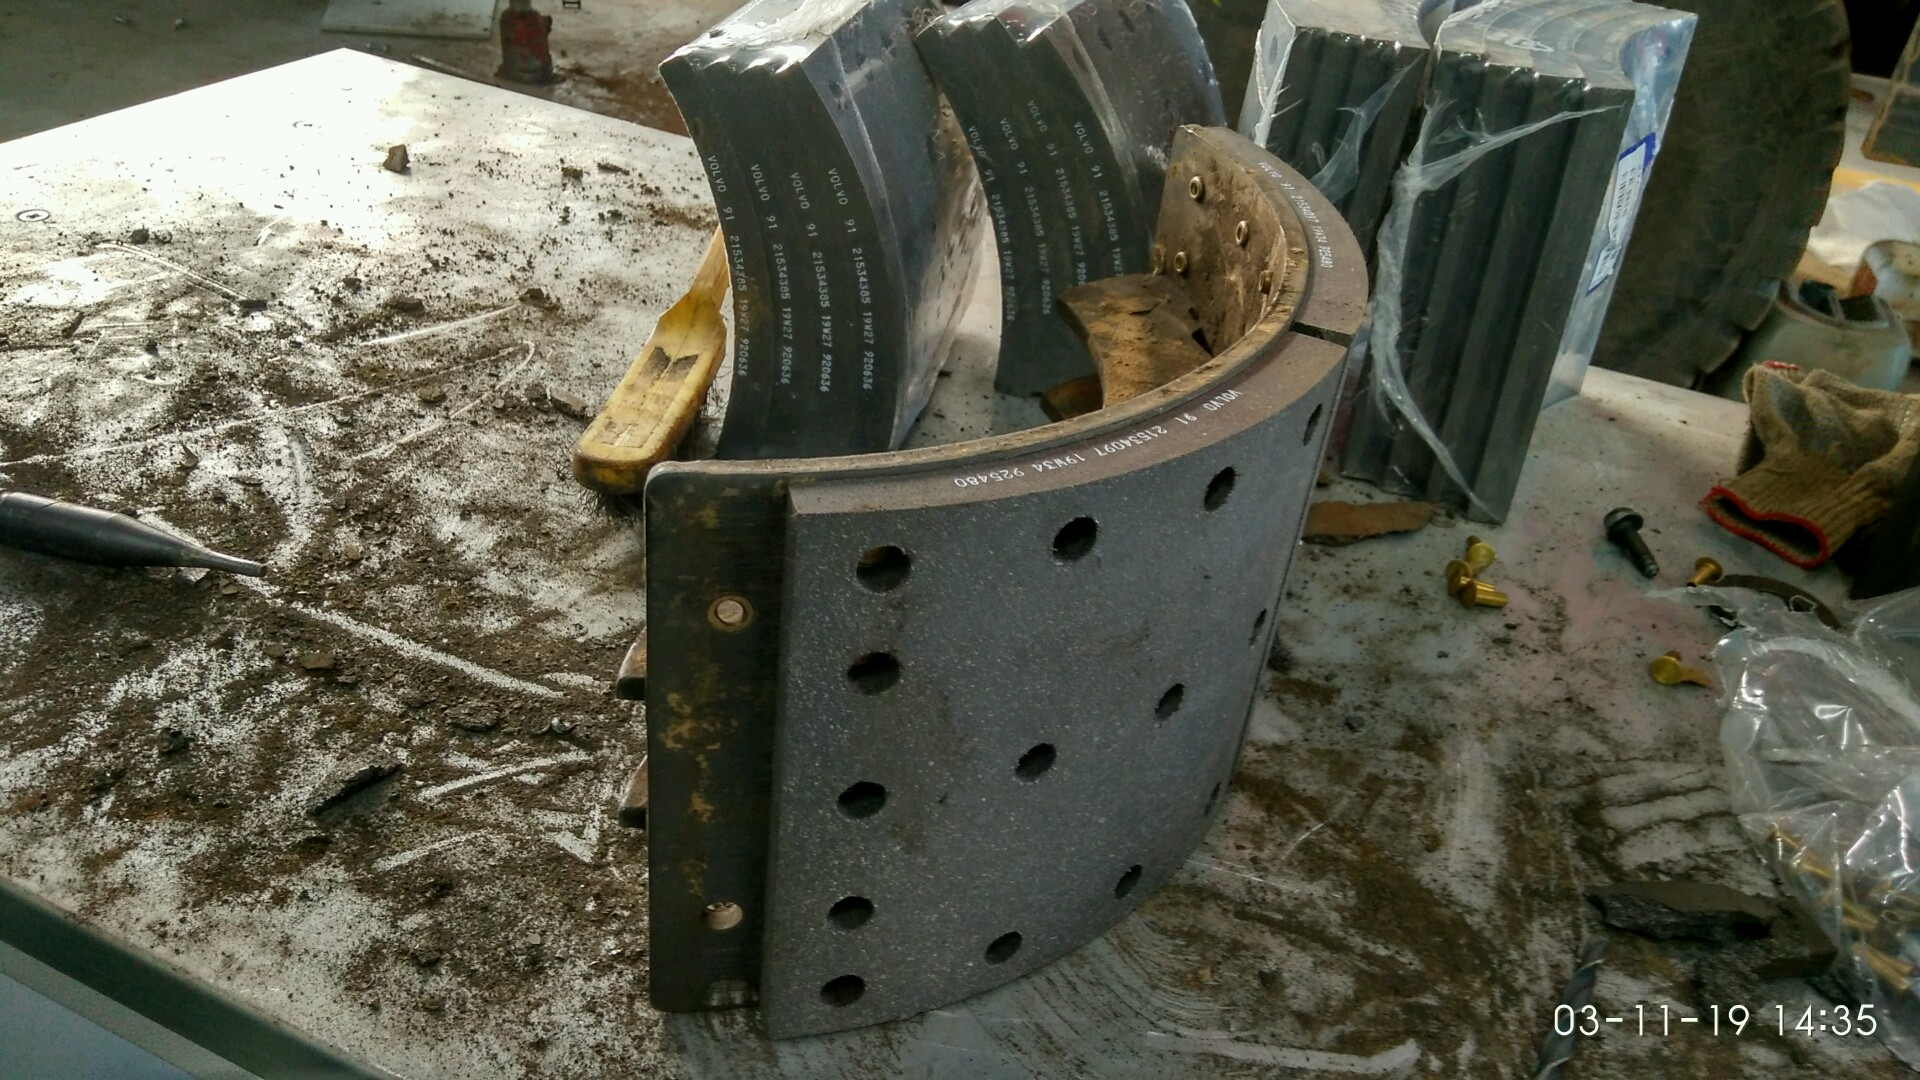
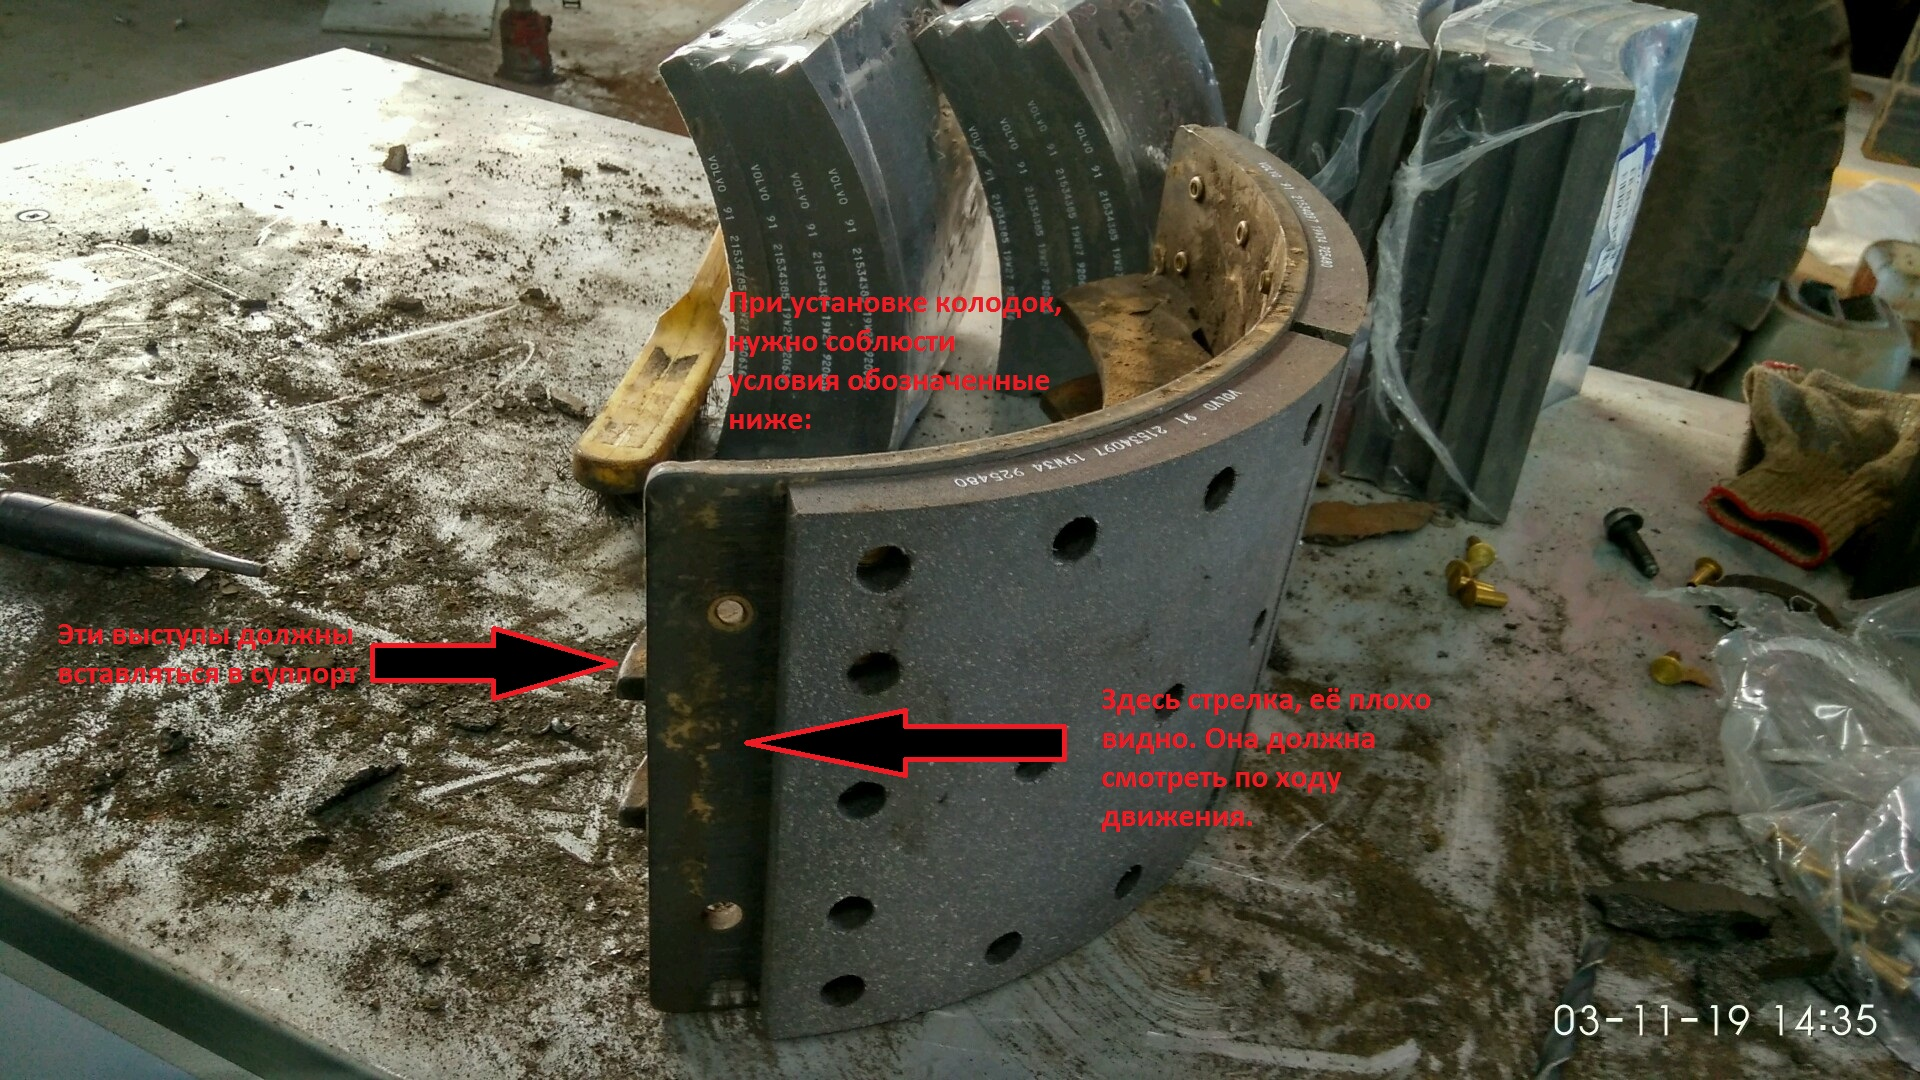
06112019_gallery

Changed region(s): [[0.375, 0.6417, 0.75, 0.7639], [0.375, 0.275, 0.5625, 0.3972], [0.0312, 0.5806, 0.3125, 0.6417]]

diff --git a/brakes.html b/brakes.html
@@ -30,7 +30,7 @@
                     </div>
                 </div>
                 <ul>
-                    <li class="simpleLink">Главная</li>
+                    <li class="simpleLink"><a href="index.html"> Главная</a></li>
                     <li class="tabLink" data-tab="1">Ремонты</li>
                     <li class="tabLink" data-tab="2">Документы</li>
                     <li class="tabLink" data-tab="3">Видео</li>
@@ -126,7 +126,10 @@
                     <li>Установить тормозной барабан на место. Закрутить два винта крепления</li>
                     <li>Развести колодки до конца. Крутить по заднему ходу машины</li>
                     <li>Поставить колесо и затянуть. Момент затяжки 650 N·m</li>
-                    <li>Отрегулировать тормоза <br>
+                    <li>Отрегулировать тормоза: <br>
+                        <span class="note">Минимальная толщина накладки 6мм. Меньше 6мм накладка на колодку подлежит
+                            замене. При регулировке, накладка должна прилегать к барабану. Зазора быть не
+                            должно!!!</span> <br>
                         <b>Развести колодки до конца. Пока колесо перестанет крутиться</b> <br>
                         <b> Открутить винт несколько оборотов в обратную сторону, пока колесо не станет крутиться.
                             Крутим колесо рукой и отпускаем. После этого колесо должно немного (10 - 20 см) прокрутится
@@ -164,15 +167,39 @@
                         </div>
                     </a></div>
                 <!-- End  Block -->
-
+                <!-- Begin Block --->
+                <div class="grid-item grid-item-mortgage">
+                    <a href="" target="_blank">
+                        <div class="thumbnail"><img alt="" src="img/content/brakes/crone_circle_03.jpg" />
+                        </div>
+                        <div class="gridContainer">
+                            <div class="catagory"></div>
+                            <p class="maintitle">Разжать пружину при помощи крон циркуля.</p>
+                        </div>
+                    </a></div>
+                <!-- End  Block -->
                 <!-- Begin Block -->
                 <div class="grid-item grid-item-mortgage">
                     <!-- change class to match catagory -->
                     <a href="" target="_blank">
                         <div class="thumbnail"><img alt="" src="img/content/brakes/brakes.jpg" /></div>
                         <div class="gridContainer">
-                            <div class="catagory">2019 Q1</div>
-                            <p class="maintitle">Расположение накладок</p>
+                            <div class="catagory"></div>
+                            <p class="maintitle">Расположение накладок. На незакрытой части колодки, есть стрелка. Она
+                                должна смотреть по ходу движения машины. </p>
+
+                        </div>
+                    </a></div>
+                <!-- End  Block -->
+                <!-- Begin Block -->
+                <div class="grid-item grid-item-mortgage">
+                    <!-- change class to match catagory -->
+                    <a href="" target="_blank">
+                        <div class="thumbnail"><img alt="" src="img/content/brakes/brake_block.jpg" /></div>
+                        <div class="gridContainer">
+                            <div class="catagory"></div>
+                            <p class="maintitle">При установке соблюсти условия: Выступы должны попадать в пазы
+                                суппорта. Стрелка должна смотреть по ходу движения вперёд. </p>
 
                         </div>
                     </a></div>
@@ -184,7 +211,7 @@
                         <div class="thumbnail"><img alt="" src="img/content/brakes/adjust_brakes_01.jpg" />
                         </div>
                         <div class="gridContainer">
-                            <div class="catagory">2018 Q4</div>
+                            <div class="catagory"></div>
                             <p class="maintitle">Регулировка тормозов</p>
                         </div>
                     </a></div>
@@ -193,10 +220,10 @@
                 <div class="grid-item grid-item-mortgage">
                     <!-- change class to match catagory -->
                     <a href="" target="_blank">
-                        <div class="thumbnail"><img alt="" src="img/content/brakes/adjust_brakes_02.jpg" />
+                        <div class="thumbnail"><img alt="" src="img/content/brakes/adjust_brakes_03.jpg" />
                         </div>
                         <div class="gridContainer">
-                            <div class="catagory">2018 Q3</div>
+                            <div class="catagory"></div>
                             <p class="maintitle">Регулировка тормозов. В окошко видно толщина накладки и зазор с каким
                                 она прилегает к барабану.</p>
                         </div>

diff --git a/css/style.css b/css/style.css
@@ -170,8 +170,20 @@ cursor: pointer;
         margin: 0 auto;
         box-shadow: 3px 0px 5px -3px #ccc;
         flex-basis: calc(100% / 12 * 2 - 40px);
-        /* background: rgba(39, 143, 213, .5); */
     }
+    .rightSide{
+        padding: 10px;
+        margin: 0 auto;
+        box-shadow: -3px 0px 5px -3px #ccc;
+        flex-basis: calc(100% / 12 * 2 - 40px);
+        
+    }
+    .leftSide h3, .rightSide h3{
+        opacity: .2;
+    }
+
+
+
     .infobox{
         padding: 10px;
         margin: 0 auto;
@@ -196,13 +208,7 @@ cursor: pointer;
         margin: auto;
         object-fit: cover;
     }
-    .rightSide{
-        padding: 10px;
-        margin: 0 auto;
-        box-shadow: -3px 0px 5px -3px #ccc;
-        flex-basis: calc(100% / 12 * 2 - 40px);
-        /* background: rgba(39, 143, 213, .5); */
-    }
+    
 
     footer {
         height: 330px;
@@ -225,7 +231,6 @@ cursor: pointer;
     margin-left: 40px; 
     min-width: 20px;
     align-items: center;
-
     /* font-family: Verdana, Geneva, Tahoma, sans-serif; */
    }
    .volvo{
@@ -246,7 +251,7 @@ cursor: pointer;
     object-fit: cover;
 }
 
-
+/* Галлерея */
 .parallax {
   background: #eff0f1;
   padding: 30px 0px;
@@ -388,4 +393,11 @@ fieldset {
 }
 img {
 	max-width: 100%;
+}
+.note{
+    font-size: 18px;
+    font-weight: 600;
+    color: #f00;
+    background: #fe8d0b;
+    padding: 0 5px;
 }
